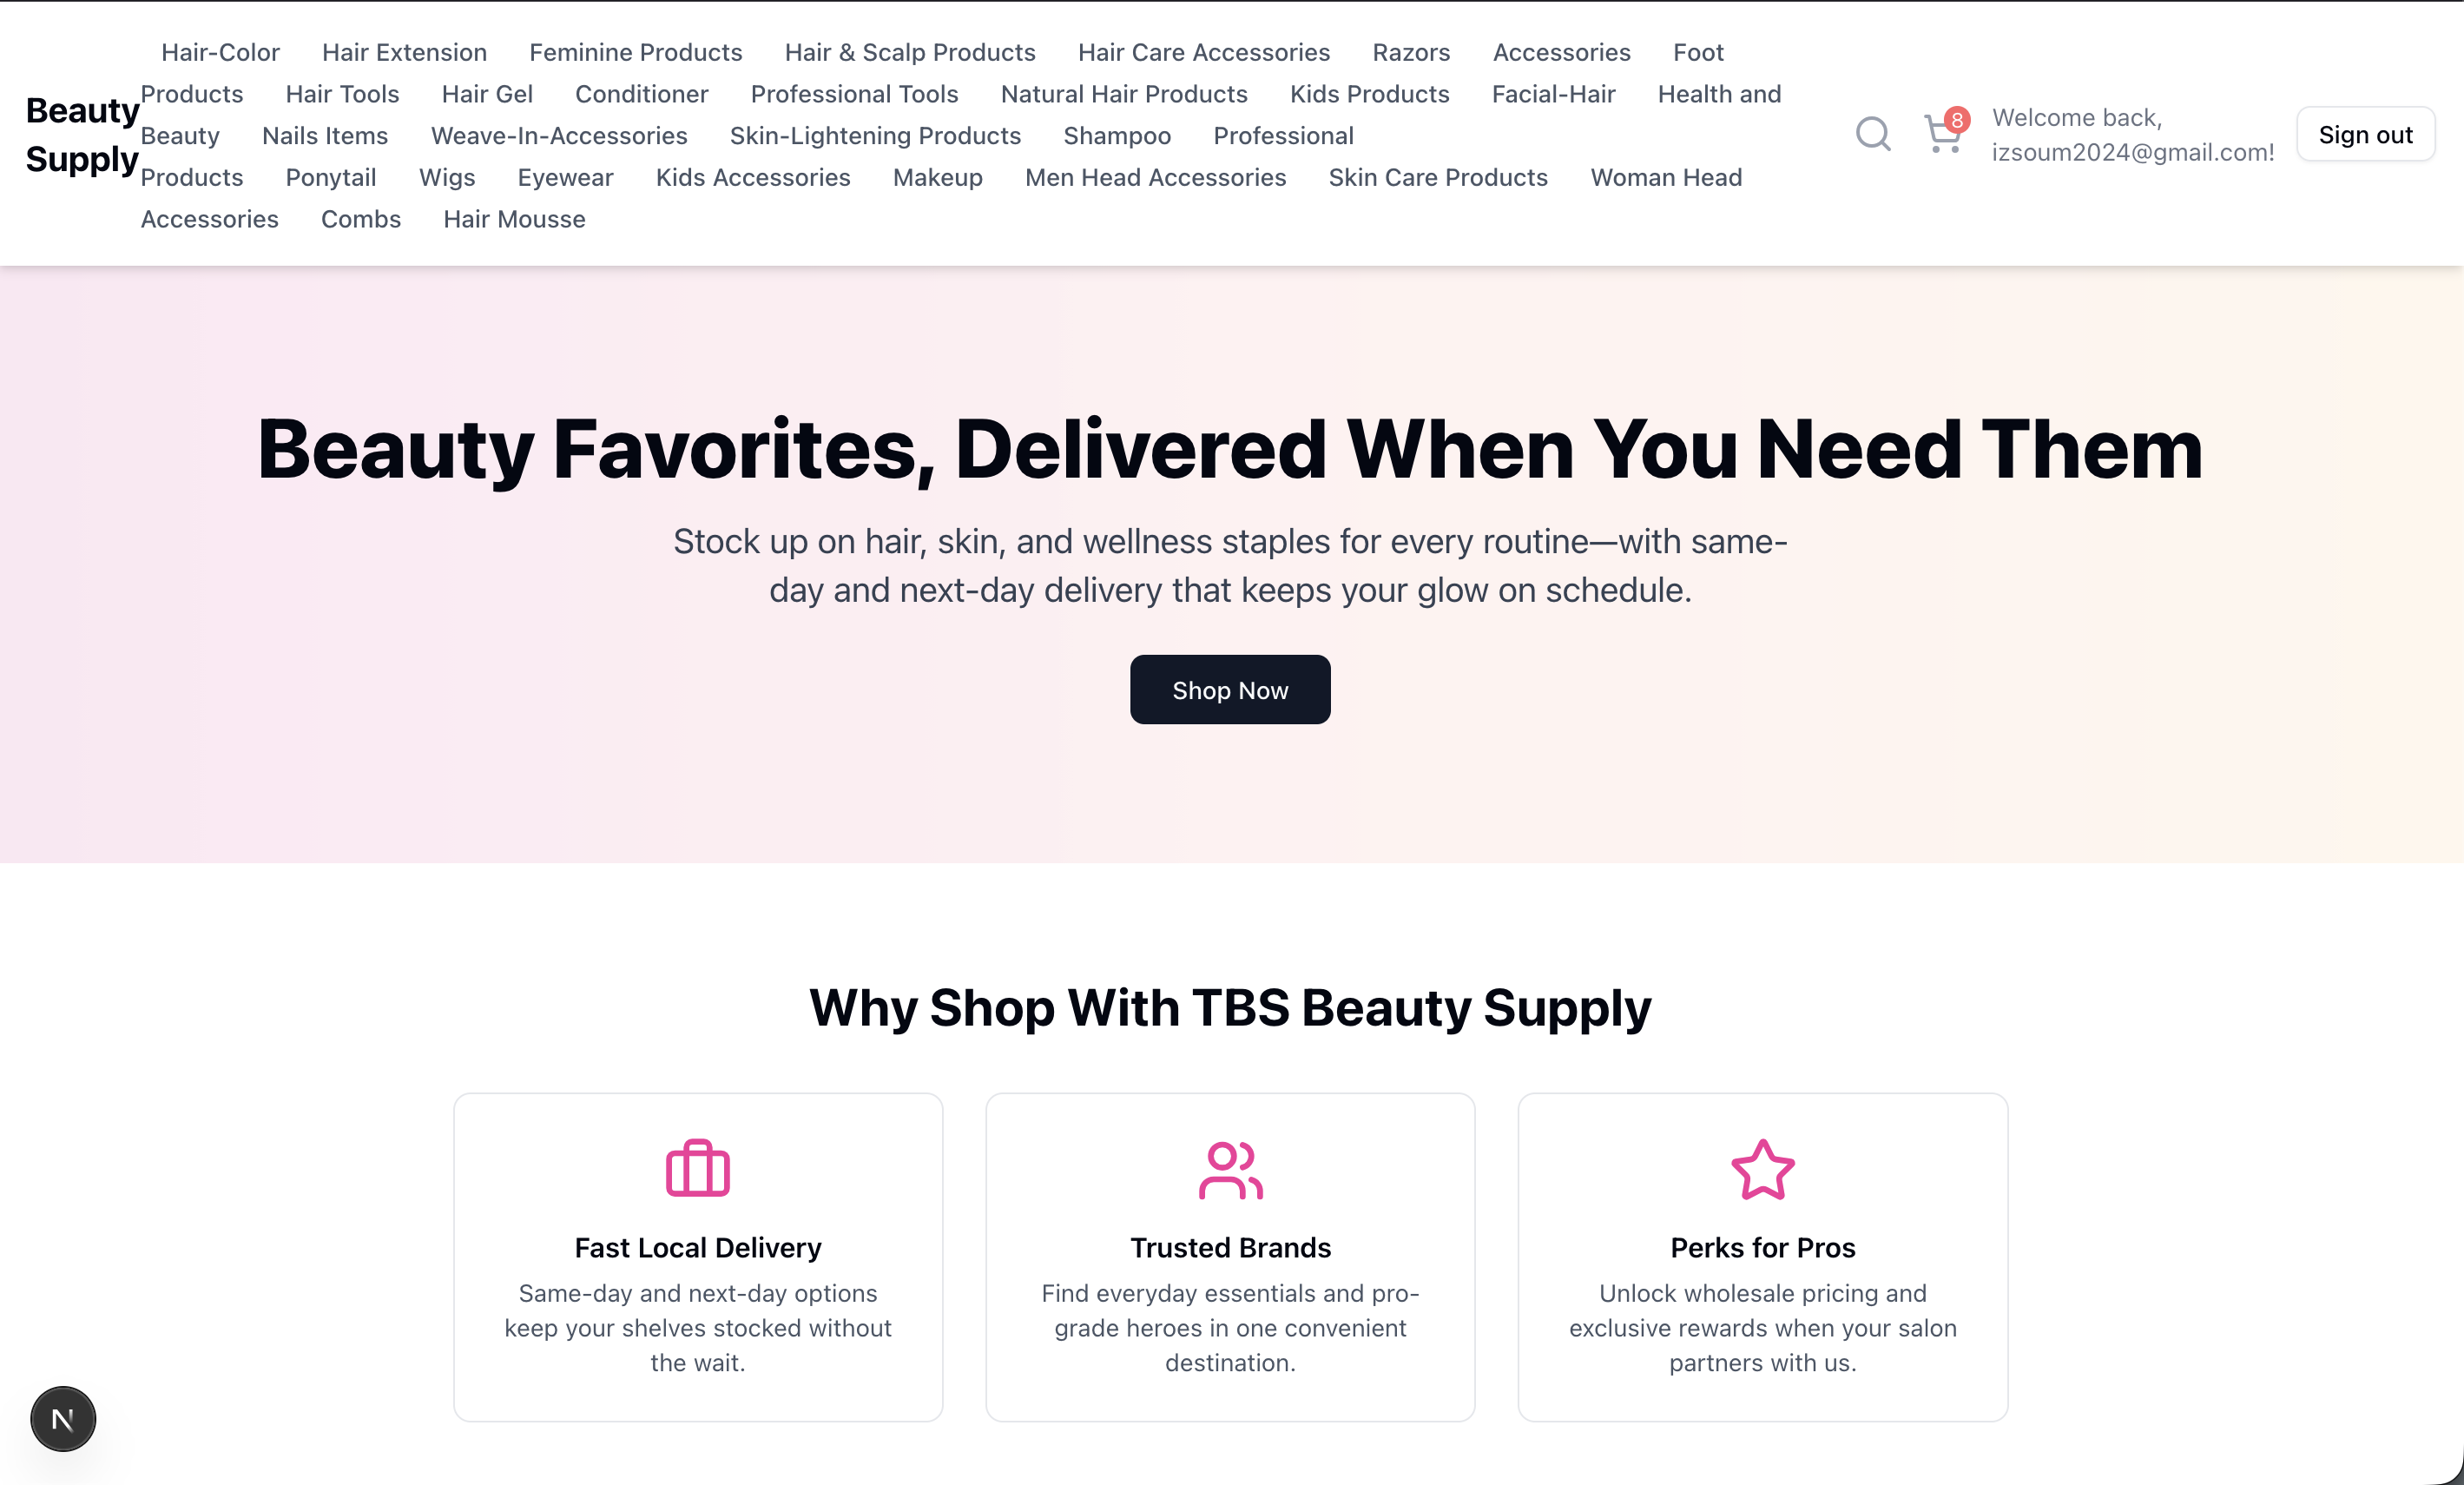
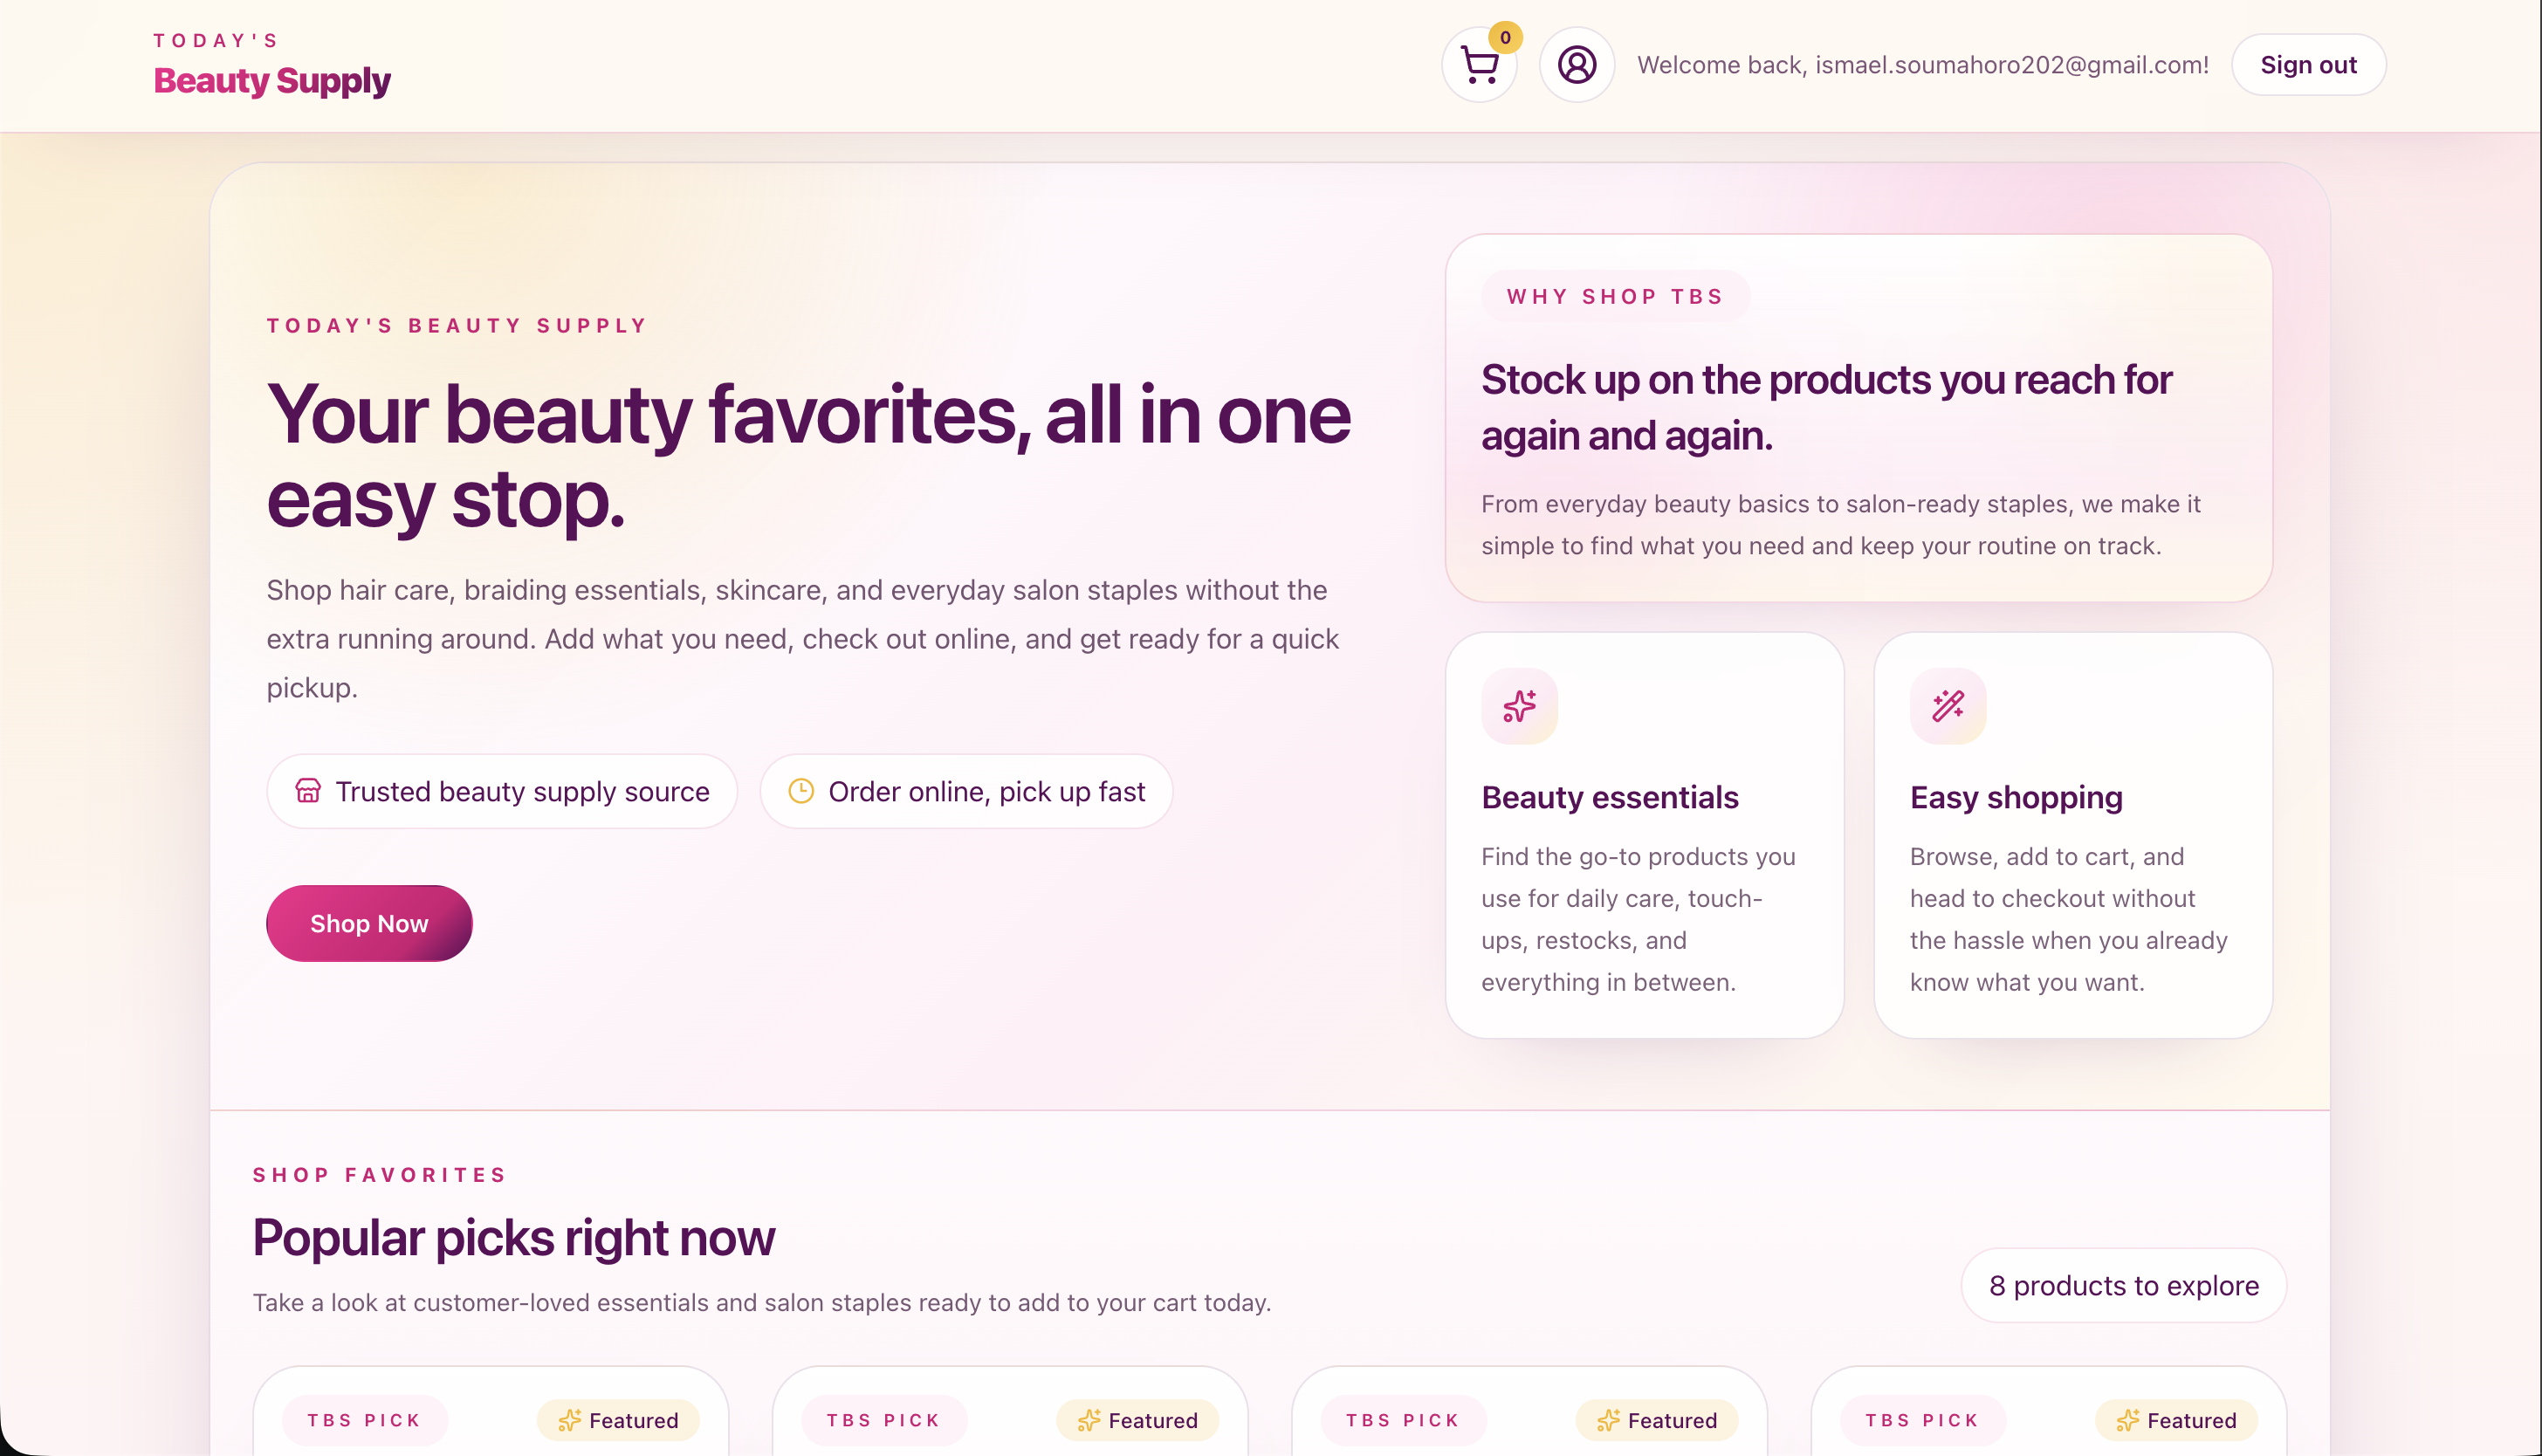
edit e commerce project description and photo and update resume

diff --git a/src/components/projects/Projects.tsx b/src/components/projects/Projects.tsx
@@ -14,18 +14,20 @@ import { oldStandardTTLight, quintessential } from "@/fonts/Fonts";
 // Types
 import Project from "@/lib/types/project-description";
 
-// TSX componente
+// TSX components
 import Image from "next/image";
 import SectionHeader from "../section-header";
 
 const projects: Project[] = [
     {
         image: tbsSite,
-        title: "TBS E-commerce Site",
-        summary: "Building an e-commerce platform for my family's business.",
-        technologies: ["Next.js w/ TS (Frontend)", "shadcn/ui (UI components)", "Supabase (Database and Auth)", "ChatGPT and other LLMs (Debugging assistants)"],
+        title: "Today Beauty Supply E-Commerce Prototype",
+        summary:
+            "Built and deployed a full-stack e-commerce prototype for my family’s beauty supply business, featuring product browsing, categories, cart management, inventory metadata, authentication-aware UI, Stripe Checkout, and order confirmation.",
+        technologies: ["Next.js", "TypeScript", "Supabase/PostgreSQL", "Stripe Checkout", "Tailwind CSS", "shadcn/ui", "Vercel"],
+        demo: "https://tbs-ecomm-prototyping-store-front.vercel.app/",
         link: "https://github.com/izzyzs/tbs-ecomm-prototyping",
-        inProgress: true,
+        inProgress: false,
     },
     {
         image: csApp,
@@ -73,13 +75,26 @@ export default function Projects() {
                                     <li key={idx}>{tech}</li>
                                 ))}
                             </ul>
-                            {project.link ? (
-                                <a href={project.link} target="_blank" className="mt-3 p-3 border-t mx-auto w-20 block border border-graphite rounded-sm hover:bg-gray-600 duration-300">
-                                    <Image src={gitHubImage} alt="Github Link" className="" />
-                                </a>
-                            ) : (
-                                ""
-                            )}
+                            <div className="md:grid md:grid-cols-2 gap-x-4">
+                                {project.demo ? (
+                                    <a
+                                        href={project.demo}
+                                        target="_blank"
+                                        className="mt-3 p-3 border-t text-center mx-auto w-30 block border border-graphite rounded-sm hover:bg-gray-600 duration-300 font-extrabold"
+                                    >
+                                        Check it out!
+                                    </a>
+                                ) : (
+                                    ""
+                                )}
+                                {project.link ? (
+                                    <a href={project.link} target="_blank" className="mt-3 p-3 border-t mx-auto w-20 block border border-graphite rounded-sm hover:bg-gray-600 duration-300">
+                                        <Image src={gitHubImage} alt="Github Link" className="" />
+                                    </a>
+                                ) : (
+                                    ""
+                                )}
+                            </div>
                         </div>
                     </div>
                 ))}

diff --git a/src/lib/types/project-description.ts b/src/lib/types/project-description.ts
@@ -1,5 +1,5 @@
 import { StaticImageData } from "next/image";
 
-type Project = { image: StaticImageData; title: string; summary: string; technologies: string[]; link?: string; inProgress?: boolean };
+type Project = { image: StaticImageData; title: string; summary: string; technologies: string[]; demo?: string; link?: string; inProgress?: boolean };
 
 export default Project;